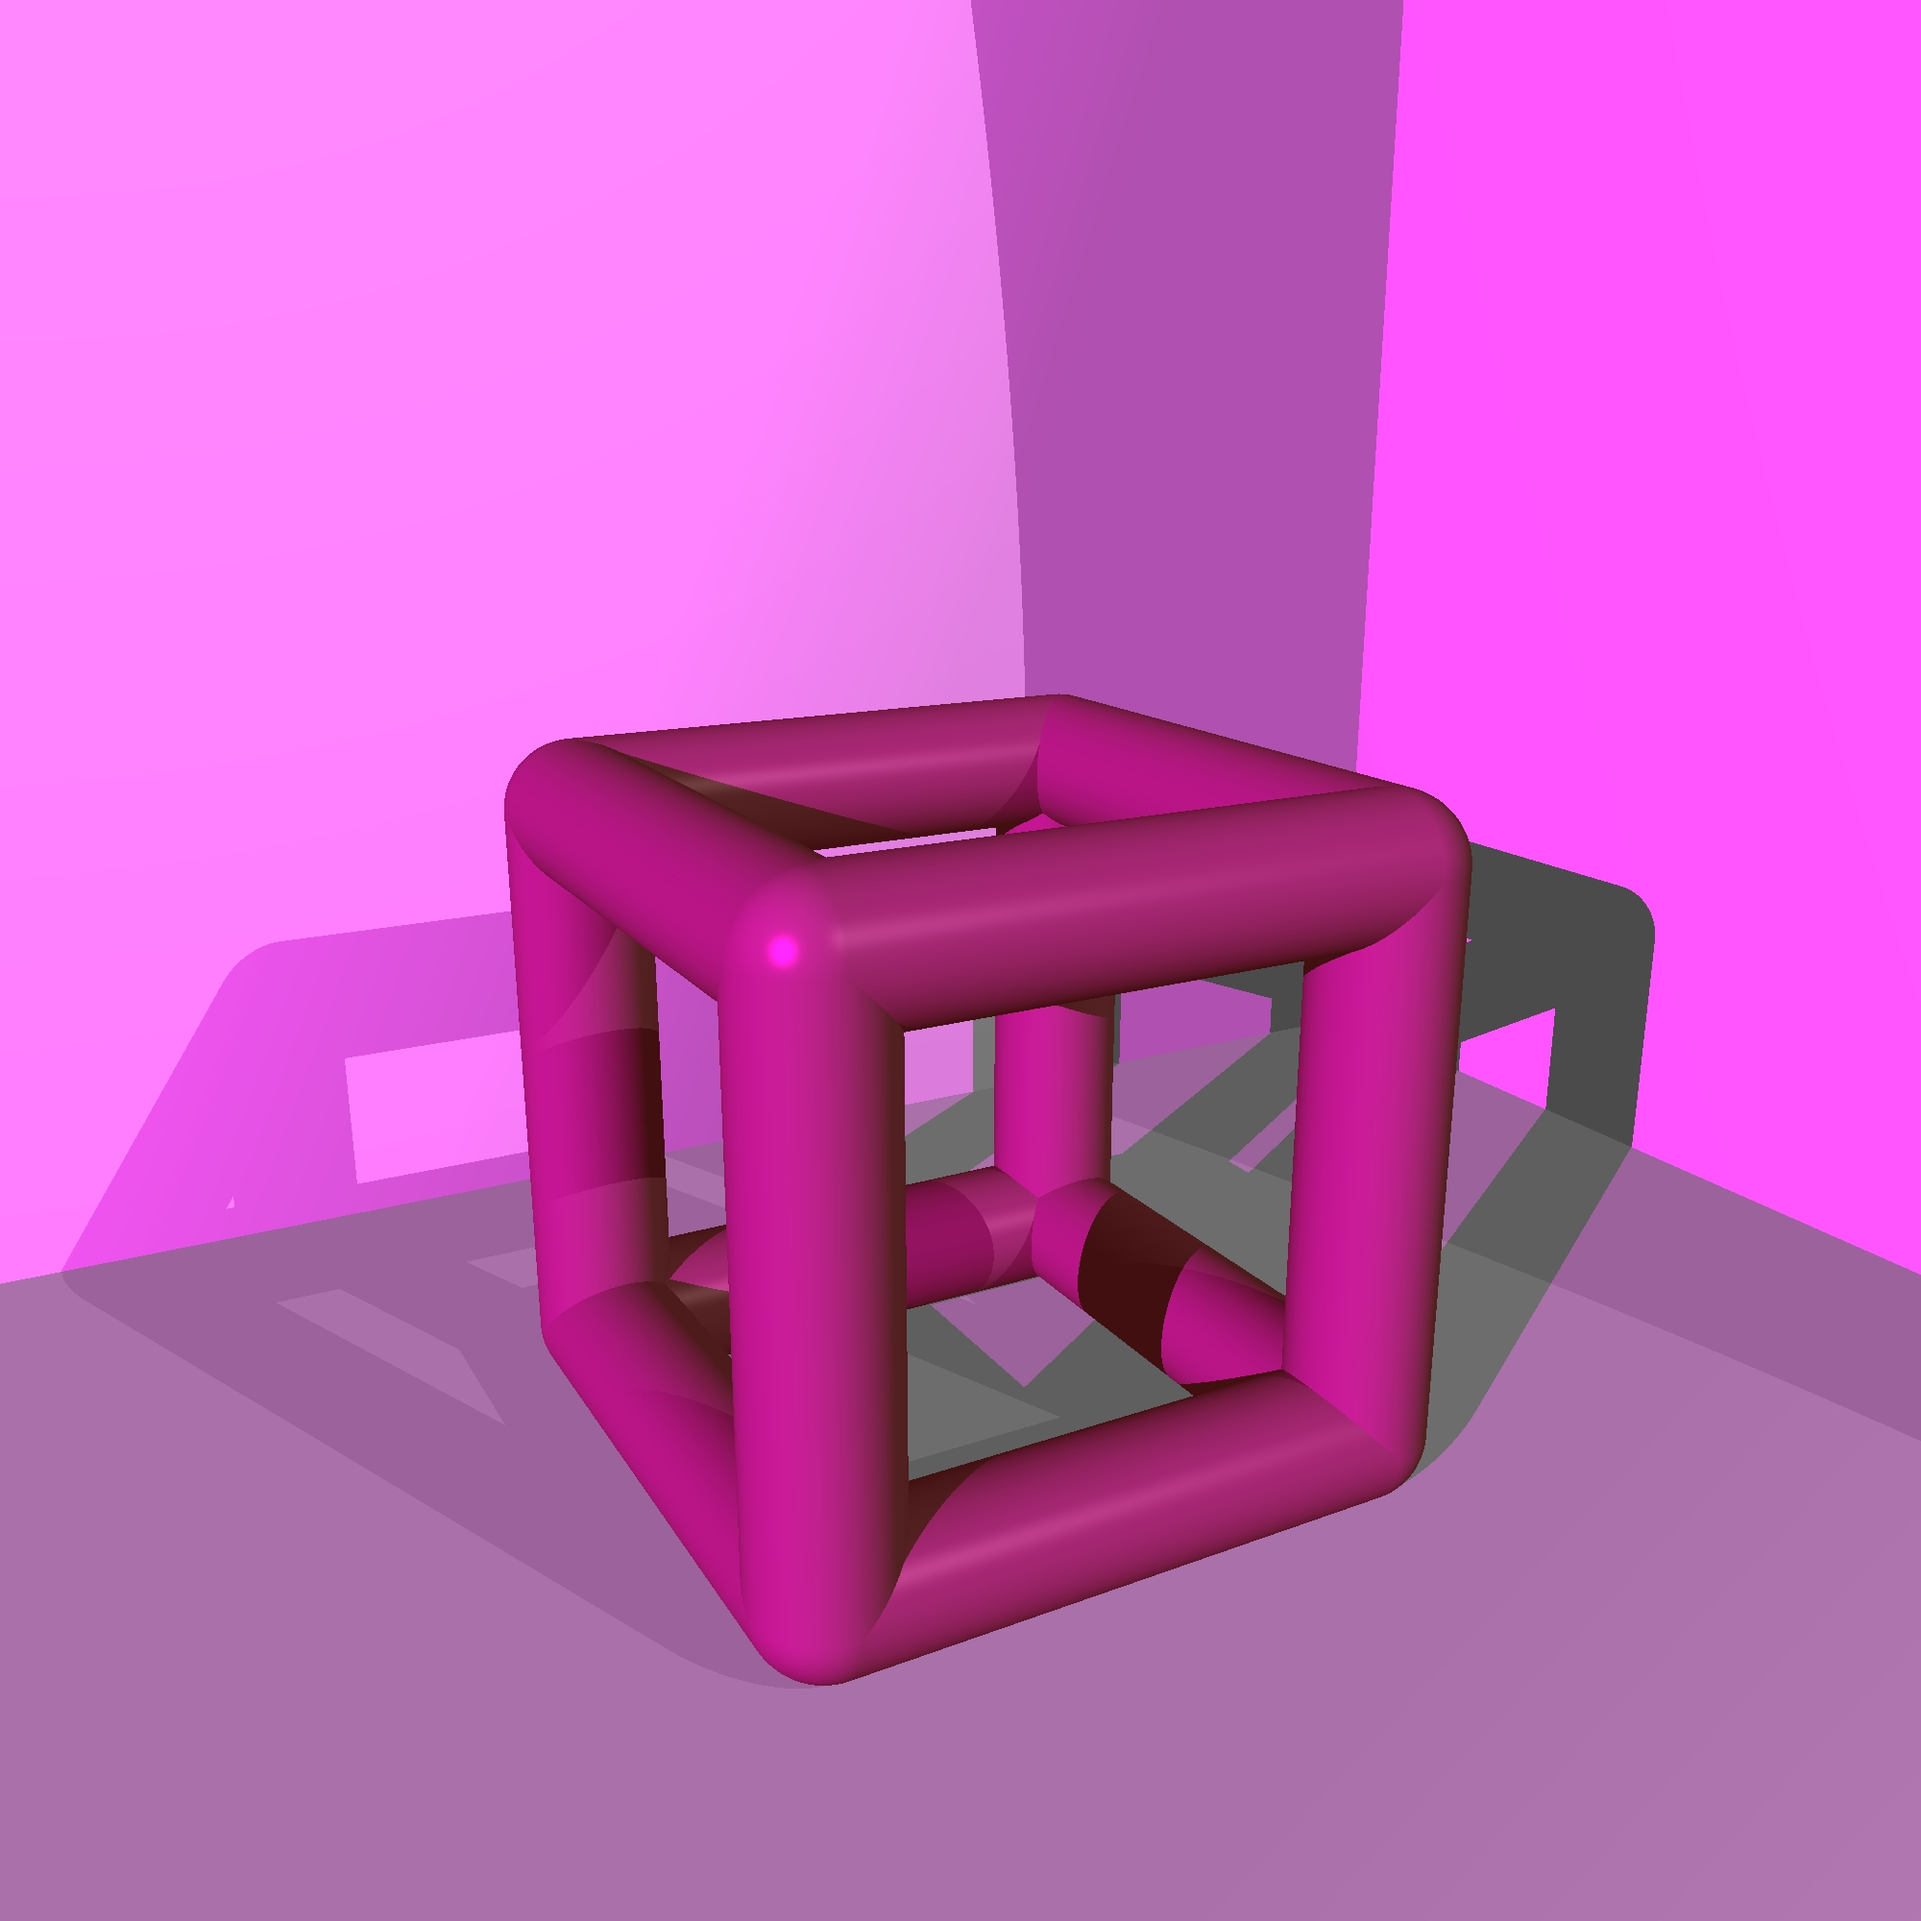
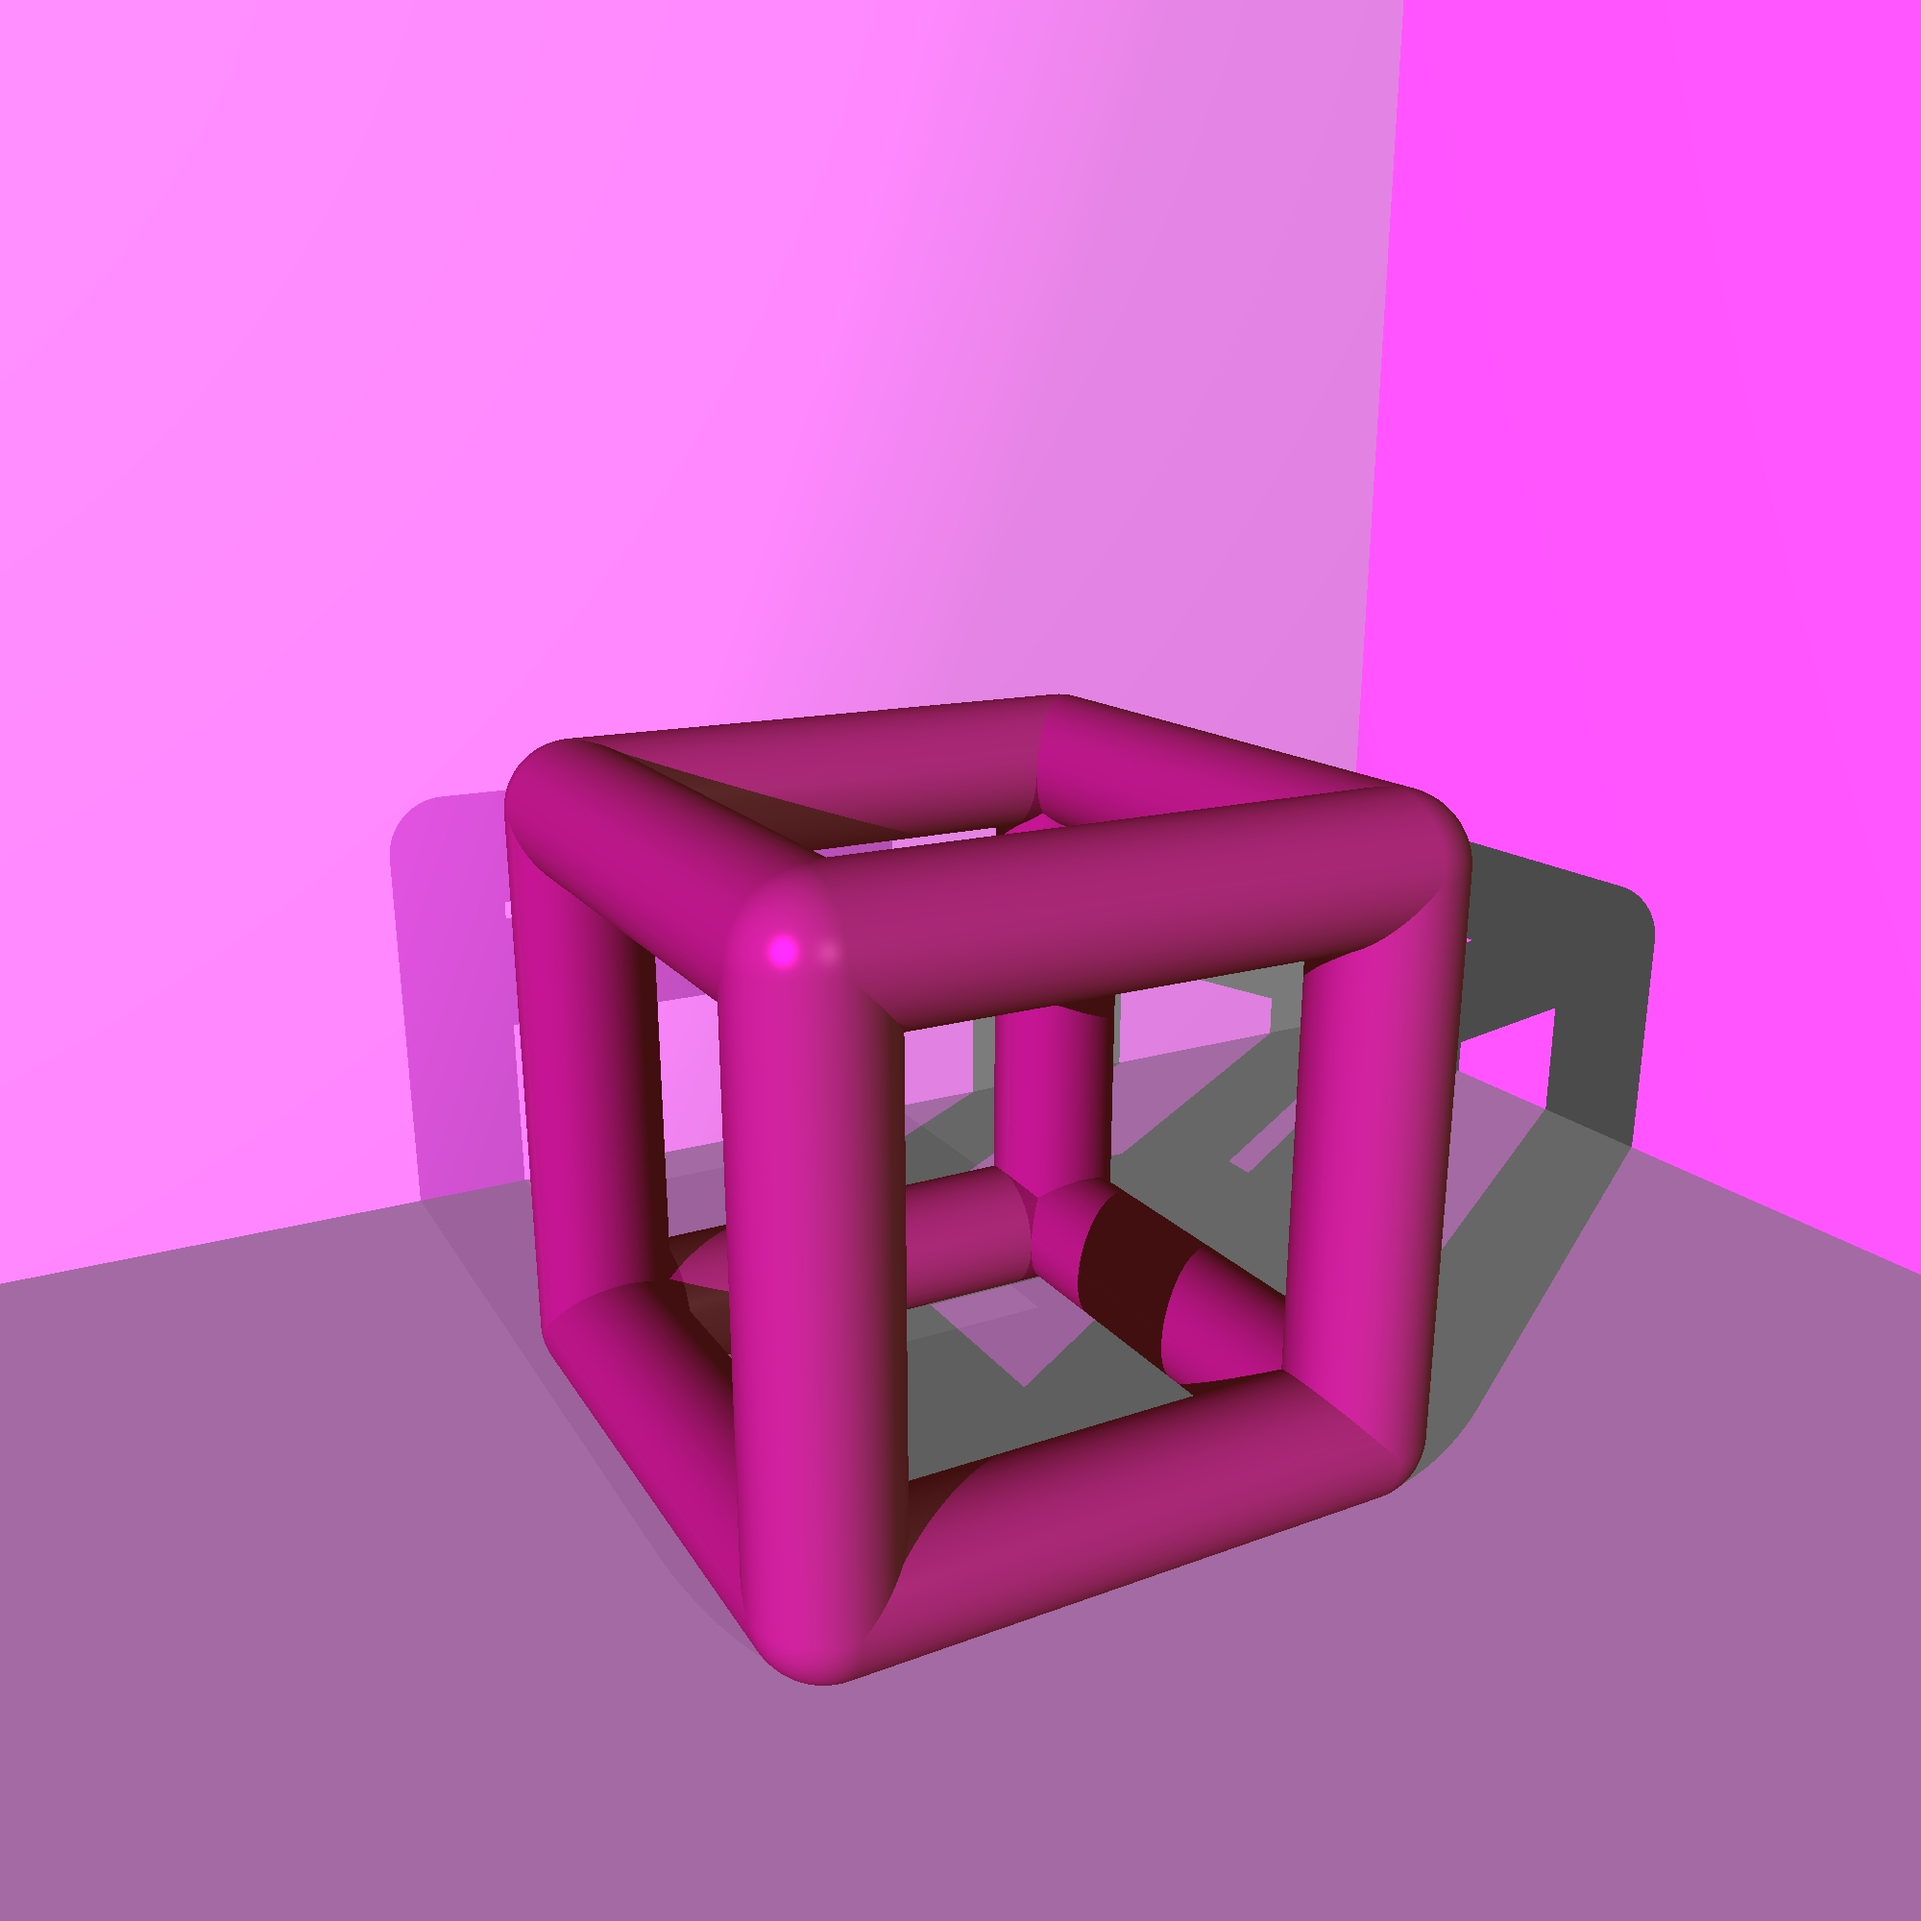
Add Square and Cube

diff --git a/src/geometries/Cube.java b/src/geometries/Cube.java
@@ -1,0 +1,66 @@
+package geometries;
+
+import primitives.*;
+
+import java.util.ArrayList;
+import java.util.List;
+
+public class Cube extends Geometry {
+    Geometries _geometries;
+    Point3D _middle;
+
+    public Cube(Square front,Square back,Material material, Color emission) {
+        super(material, emission);
+        _geometries = new Geometries(front,back);
+        _geometries.add(new Square(front.getPoint1(),front.getPoint2(),back.getPoint2(),back.getPoint1()));
+        _geometries.add(new Square(front.getPoint2(),front.getPoint3(),back.getPoint3(),back.getPoint2()));
+        _geometries.add(new Square(front.getPoint3(),front.getPoint4(),back.getPoint4(),back.getPoint3()));
+        _geometries.add(new Square(front.getPoint4(),front.getPoint1(),back.getPoint1(),back.getPoint4()));
+        Vector cross = front.getPoint1().subtract(front.getPoint3());
+        Point3D middleF = front.getPoint3().add(cross.scale(0.5));
+        cross = back.getPoint1().subtract(back.getPoint3());
+        Point3D middleB = back.getPoint3().add(cross.scale(0.5));
+        cross = middleB.subtract(middleF);
+        _middle = middleF.add(cross.scale(0.5));
+    }
+
+    public Cube(Square front,Point3D bp,double height,Material material, Color emission) {
+        super(material, emission);
+        Vector normal = front.getNormal(null);
+        Vector dir = bp.subtract(front.getPoint3());
+        if(dir.dotProduct(normal)>0){
+            normal = normal.scale(-1);
+        }
+        Vector h = normal.scale(height);
+        Square back = new Square(front.getPoint1().add(h),front.getPoint2().add(h),front.getPoint3().add(h),front.getPoint4().add(h));
+        _geometries = new Geometries(front,back);
+        _geometries.add(new Square(front.getPoint1(),front.getPoint2(),back.getPoint2(),back.getPoint1()));
+        _geometries.add(new Square(front.getPoint2(),front.getPoint3(),back.getPoint3(),back.getPoint2()));
+        _geometries.add(new Square(front.getPoint3(),front.getPoint4(),back.getPoint4(),back.getPoint3()));
+        _geometries.add(new Square(front.getPoint4(),front.getPoint1(),back.getPoint1(),back.getPoint4()));
+        Vector cross = front.getPoint1().subtract(front.getPoint3());
+        Point3D middleF = front.getPoint3().add(cross.scale(0.5));
+        cross = back.getPoint1().subtract(back.getPoint3());
+        Point3D middleB = back.getPoint3().add(cross.scale(0.5));
+        cross = middleB.subtract(middleF);
+        _middle = middleF.add(cross.scale(0.5));
+    }
+
+    @Override
+    public Vector getNormal(Point3D p) {
+        Geometry geometry = _geometries.findIntersections(new Ray(_middle,p.subtract(_middle))).get(0).geometry;
+        return geometry.getNormal(p);
+    }
+
+    @Override
+    public List<GeoPoint> findIntersections(Ray ray) {
+        List<GeoPoint> intersections = _geometries.findIntersections(ray);
+        if(intersections.isEmpty())
+            return  intersections;
+        List<GeoPoint> returnInts = new ArrayList<>();
+        for(GeoPoint geoPoint:intersections){
+            returnInts.add(new GeoPoint(this,geoPoint.point));
+        }
+        return returnInts;
+    }
+}

diff --git a/src/geometries/Square.java b/src/geometries/Square.java
@@ -1,0 +1,103 @@
+package geometries;
+
+import primitives.*;
+
+import java.util.ArrayList;
+import java.util.List;
+import java.util.Objects;
+
+public class Square extends Plane {
+    Point3D _point1;
+    Point3D _point2;
+    Point3D _point3;
+    Point3D _point4;
+
+
+    public Square(Point3D p1, Point3D p2, Point3D p3, Point3D p4, Material material, Color emission) {
+        super(p1, p2, p3, material, emission);
+        _point1 = new Point3D(p1);
+        _point2 = new Point3D(p2);
+        _point3 = new Point3D(p3);
+        _point4 = new Point3D(p4);
+
+    }
+
+    public Square(Point3D p1, Point3D p2, Point3D p3, Point3D p4) {
+        super(p1, p2, p3);
+        _point1 = new Point3D(p1);
+        _point2 = new Point3D(p2);
+        _point3 = new Point3D(p3);
+        _point4 = new Point3D(p4);
+
+    }
+
+    @Override
+    public boolean equals(Object o) {
+        if (this == o) return true;
+        if (o == null || getClass() != o.getClass()) return false;
+        Square square = (Square) o;
+        return Objects.equals(_point1, square._point1) &&
+                Objects.equals(_point2, square._point2) &&
+                Objects.equals(_point3, square._point3) &&
+                Objects.equals(_point4, square._point4);
+    }
+
+
+
+    public Point3D getPoint1() {
+        return _point1;
+    }
+
+    public Point3D getPoint2() {
+        return _point2;
+    }
+
+    public Point3D getPoint3() {
+        return _point3;
+    }
+
+    public Point3D getPoint4() {
+        return _point4;
+    }
+
+    @Override
+    public String toString() {
+        return "SQ{" +
+                "P1=" + _point1 +
+                ", P2=" + _point2 +
+                ", P3=" + _point3 +
+                ", P4=" + _point4 +
+                '}';
+    }
+
+    @Override
+    public List<GeoPoint> findIntersections(Ray ray) {
+        List<GeoPoint> intersections =  super.findIntersections(ray);
+        if(intersections.isEmpty())
+            return intersections;
+        Point3D intsPoint = intersections.get(0).point;
+        intersections.clear();
+        Vector vector = ray.getVector();
+        Point3D startPoint = ray.getPoint3D().subtract(ray.getVector());
+
+        Vector v1 = _point1.subtract(startPoint);
+        Vector v2 = _point2.subtract(startPoint);
+        Vector v3 = _point3.subtract(startPoint);
+        Vector v4 = _point4.subtract(startPoint);
+
+        Vector n1 = v1.crossProduct(v2);
+        Vector n2 = v2.crossProduct(v3);
+        Vector n3 = v3.crossProduct(v4);
+        Vector n4 = v4.crossProduct(v1);
+
+        double sign1 = vector.dotProduct(n1);
+        double sign2 = vector.dotProduct(n2);
+        double sign3 = vector.dotProduct(n3);
+        double sign4 = vector.dotProduct(n4);
+
+        if((sign1>0&&sign2>0&&sign3>0&&sign4>0)||(sign1<0&&sign2<0&&sign3<0&&sign4<0)){
+            intersections.add(new GeoPoint(this,intsPoint));
+        }
+        return intersections;
+    }
+}

diff --git a/src/renderer/SAXHandler.java b/src/renderer/SAXHandler.java
@@ -144,6 +144,42 @@ public class SAXHandler extends DefaultHandler {
                 _scene.addGeometries(new Plane(p,v,material,color));
             }
             break;
+            //create new Square
+            case "square":
+            {
+                double[] points = parse3Numbers(attributes.getValue("p0"));
+                Point3D p1 = new Point3D(points[0], points[1], points[2]);
+                points = parse3Numbers(attributes.getValue("p1"));
+                Point3D p2 = new Point3D(points[0], points[1], points[2]);
+                points = parse3Numbers(attributes.getValue("p2"));
+                Point3D p3 = new Point3D(points[0], points[1], points[2]);
+                points = parse3Numbers(attributes.getValue("p3"));
+                Point3D p4 = new Point3D(points[0], points[1], points[2]);
+                Color color = new Color(parse3Numbers(attributes.getValue("emission")));
+                Material material = getMaterail(attributes.getValue("material"));
+                _scene.addGeometries(new Square(p1,p2,p3,p4,material,color));
+            }
+            break;
+            //create new Square
+            case "cube":
+            {
+                double[] points = parse3Numbers(attributes.getValue("p0"));
+                Point3D p1 = new Point3D(points[0], points[1], points[2]);
+                points = parse3Numbers(attributes.getValue("p1"));
+                Point3D p2 = new Point3D(points[0], points[1], points[2]);
+                points = parse3Numbers(attributes.getValue("p2"));
+                Point3D p3 = new Point3D(points[0], points[1], points[2]);
+                points = parse3Numbers(attributes.getValue("p3"));
+                Point3D p4 = new Point3D(points[0], points[1], points[2]);
+                points = parse3Numbers(attributes.getValue("bp"));
+                Point3D bp = new Point3D(points[0], points[1], points[2]);
+                double height = Double.parseDouble(attributes.getValue("height"));
+                Color color = new Color(parse3Numbers(attributes.getValue("emission")));
+                Material material = getMaterail(attributes.getValue("material"));
+                Square front = new Square(p1,p2,p3,p4);
+                _scene.addGeometries(new Cube(front,bp,height,material,color));
+            }
+            break;
             //set grid
             case "grid":
             {
@@ -169,7 +205,7 @@ public class SAXHandler extends DefaultHandler {
                 double y = Double.parseDouble(attributes.getValue("y"));
                 double z = Double.parseDouble(attributes.getValue("z"));
                 _scene.getCamera().rotateXYZ(x,y,z);
-                }
+            }
             break;
 
         }

diff --git a/src/test/RenderTest.java b/src/test/RenderTest.java
@@ -120,14 +120,27 @@ public class RenderTest {
 	@Test
 	public void proTests(){
 		Scene scene = new Scene("");
-		scene.setCamera(new Camera(new Point3D(-400,-600,800),new Vector(0,-1,0),new Vector(0,0,-1)),250);
+		scene.setCamera(new Camera(new Point3D(-400,-600,2000),new Vector(0,-1,0),new Vector(0,0,-1)),500);
 		scene.setBackground(Color.BLACK);
 		scene.setLight(new AmbientLight(new Color(20,20,20),1));
 		scene.addLight(new DirectionalLight(new Color(150,150,130),new Vector(-1,1,-1)));
 		scene.addLight(new SpotLight(new Color(655,655,655),new Point3D(200,-400,0),0.05,0.00005,0.000008,new Vector(5,1,-1)));
-		scene.addGeometries(new Triangle(new Point3D(600,0,-400),new Point3D(-1400,0,-400),new Point3D(600,-1000,-2320),new Material(0.5,0.5,100),new Color(0,0,0)));
-		scene.addGeometries(new Triangle(new Point3D(-1400,0,-400),new Point3D(600,-1000,-2320),new Point3D(-1400,-1000,-2320),new Material(0.5,0.5,100),new Color(0,0,0)));
-		//scene.addGeometries(new Plane(new Point3D(600.0,0.0,-400.0),new Vector(0.0,-0.8869140841669796,0.46193441883696856),new Material(0.5,0.5,100),new Color(0,0,0)));
+		scene.addGeometries(
+				new Cube(
+						new Square(
+								new Point3D(600,0,-400),
+								new Point3D(-1400,0,-400),
+								new Point3D(-1400,-1000,-2320),
+								new Point3D(600,-1000,-2320)),
+						new Point3D(0,-2000,-1000),
+						50,
+						new Material(0.5,0.5,100)
+						,new Color(0,0,0)) );
+		scene.addGeometries(new Cylinder(25,new Point3D(600,25,-400), new Point3D(-1400,25,-400),new Material(0.5,0.5,100),new Color(0,0,0)));
+		scene.addGeometries(new Cylinder(25,new Point3D(600,25,-400), new Point3D(600,-975,-2320),new Material(0.5,0.5,100),new Color(0,0,0)));
+		scene.addGeometries(new Cylinder(25,new Point3D(-1400,-975,-2320), new Point3D(-1400,25,-400),new Material(0.5,0.5,100),new Color(0,0,0)));
+		scene.addGeometries(new Sphere(25,new Point3D(600,25,-400),new Material(0.5,0.5,100),new Color(0,0,0)));
+		scene.addGeometries(new Sphere(25,new Point3D(-1400,25,-400),new Material(0.5,0.5,100),new Color(0,0,0)));
 
 		for(int i=0;i<10;i++){
 			for(int j=0;j<10;j++){
@@ -139,6 +152,8 @@ public class RenderTest {
 		rn.renderImage();
 		imw.writeToimage();
 	}
+
+
 
 }
 

diff --git a/src/geometries/Cylinder.java b/src/geometries/Cylinder.java
@@ -45,6 +45,23 @@ public class Cylinder extends Tube   {
         this._height = height;
     }
 
+    /**
+     * A new Cylinder
+     *
+     * @param radius the radius
+     * @param ray    the direction vector and middle point
+     * @param height the height
+     * @param material material
+     * @param emission emission
+     */
+    public Cylinder(double radius,Point3D p1,Point3D p2,Material material,Color emission) {
+        super(radius, new Ray(p1.add(p2.subtract(p1).normal().scale(p1.distance(p2)/2)),p2.subtract(p1)),material,emission);
+        double height = p1.distance(p2);
+        if (isZero(height) || height < 0)
+            throw new IllegalArgumentException("Height is zero or negative");
+        this._height = height;
+    }
+
     /* ************* Getters/Setters *******/
 
     /**
